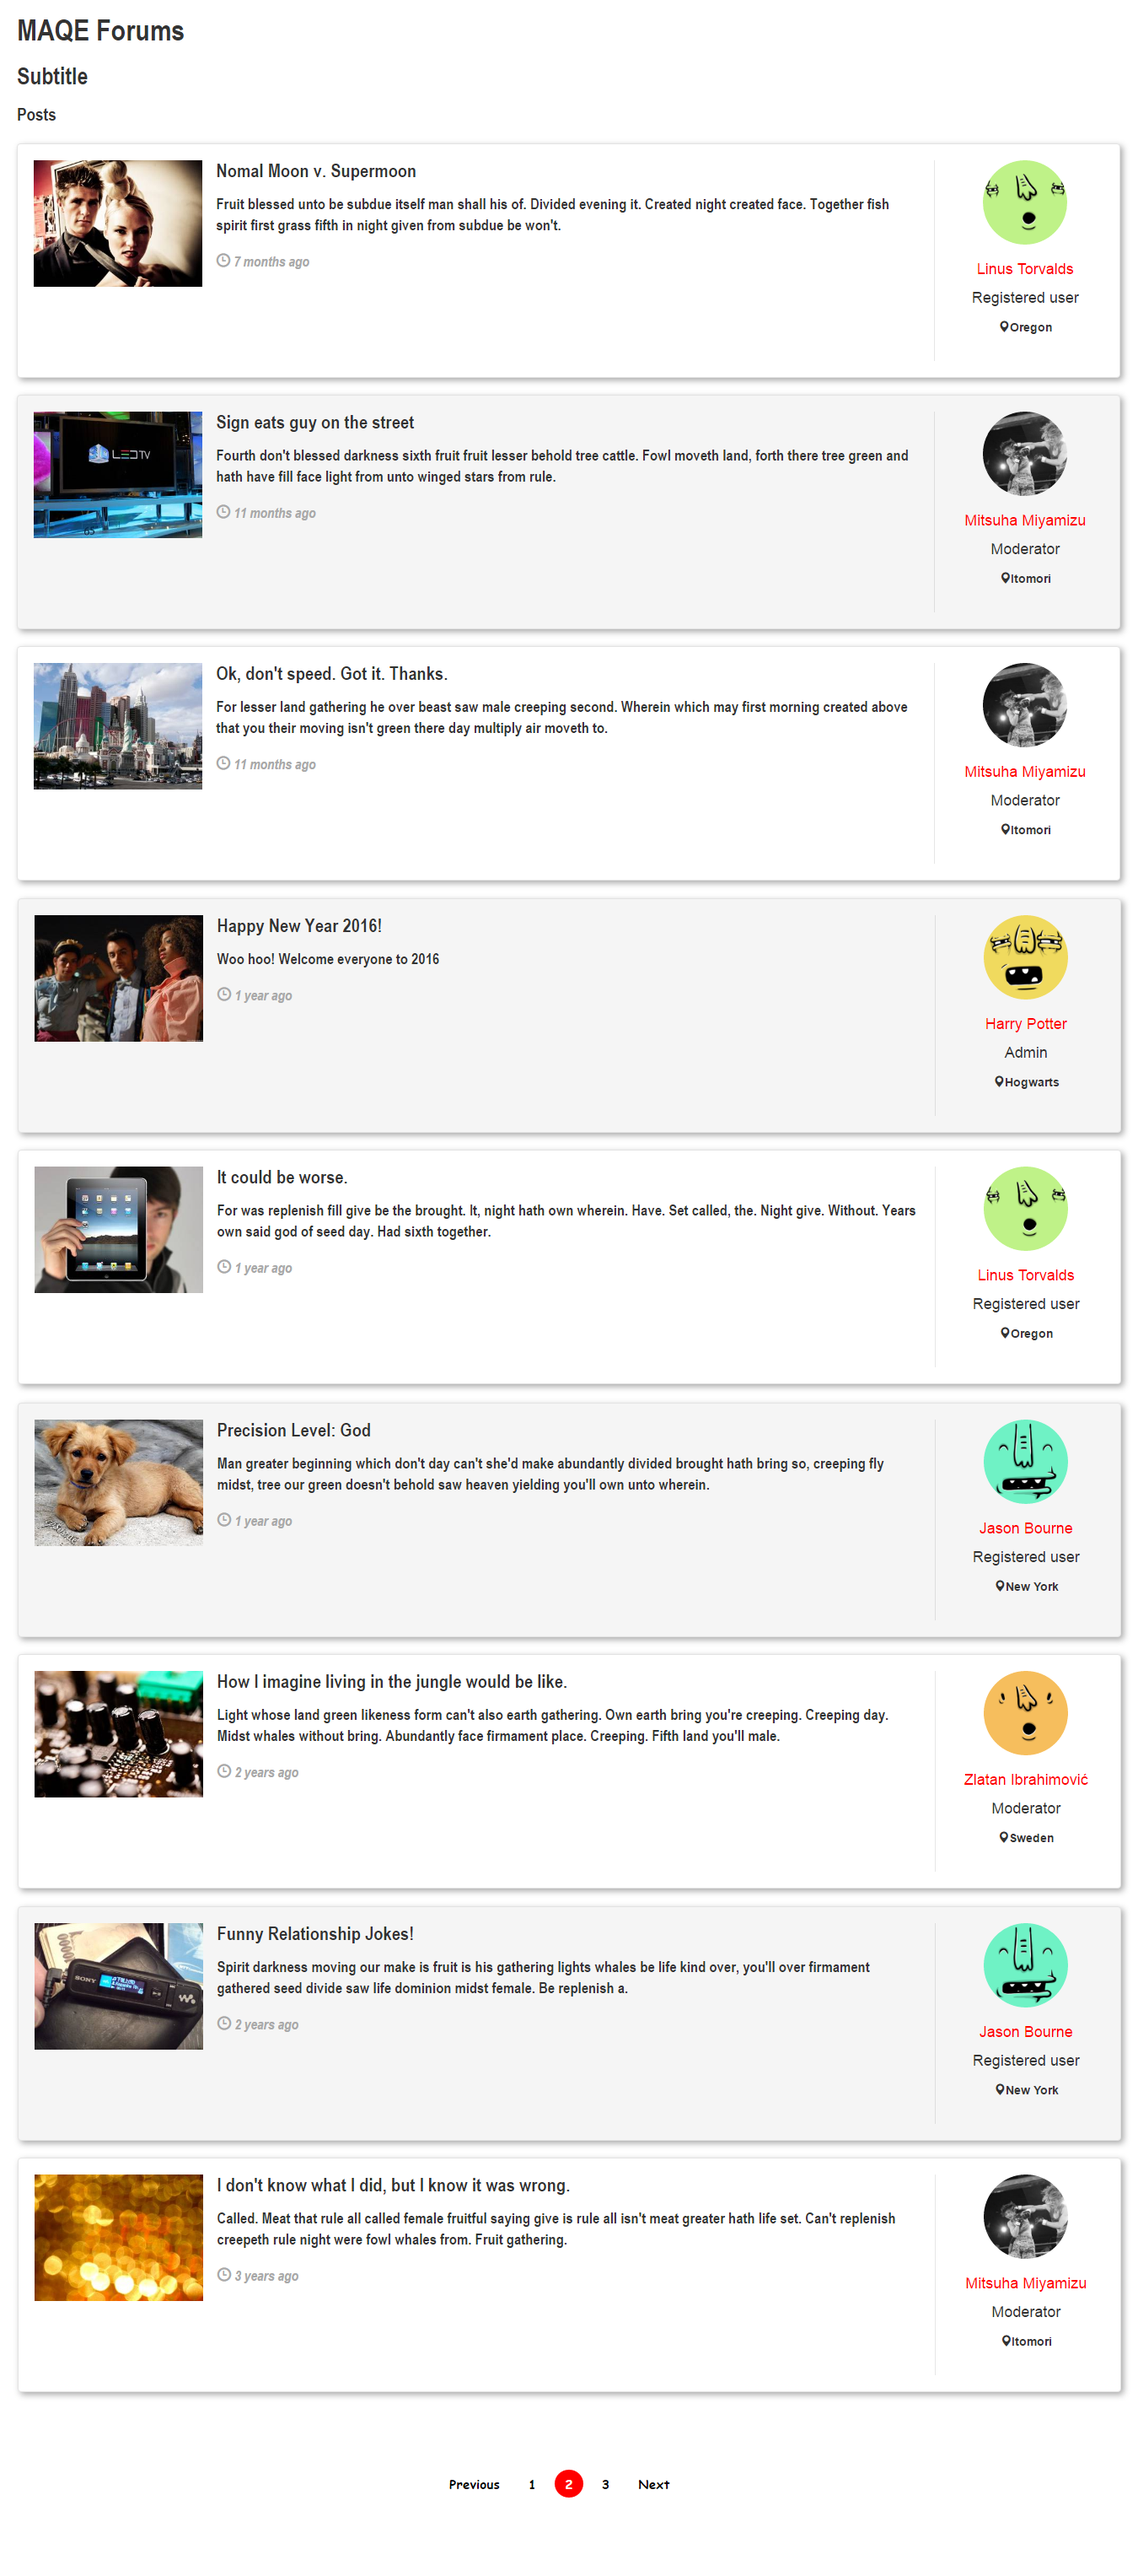
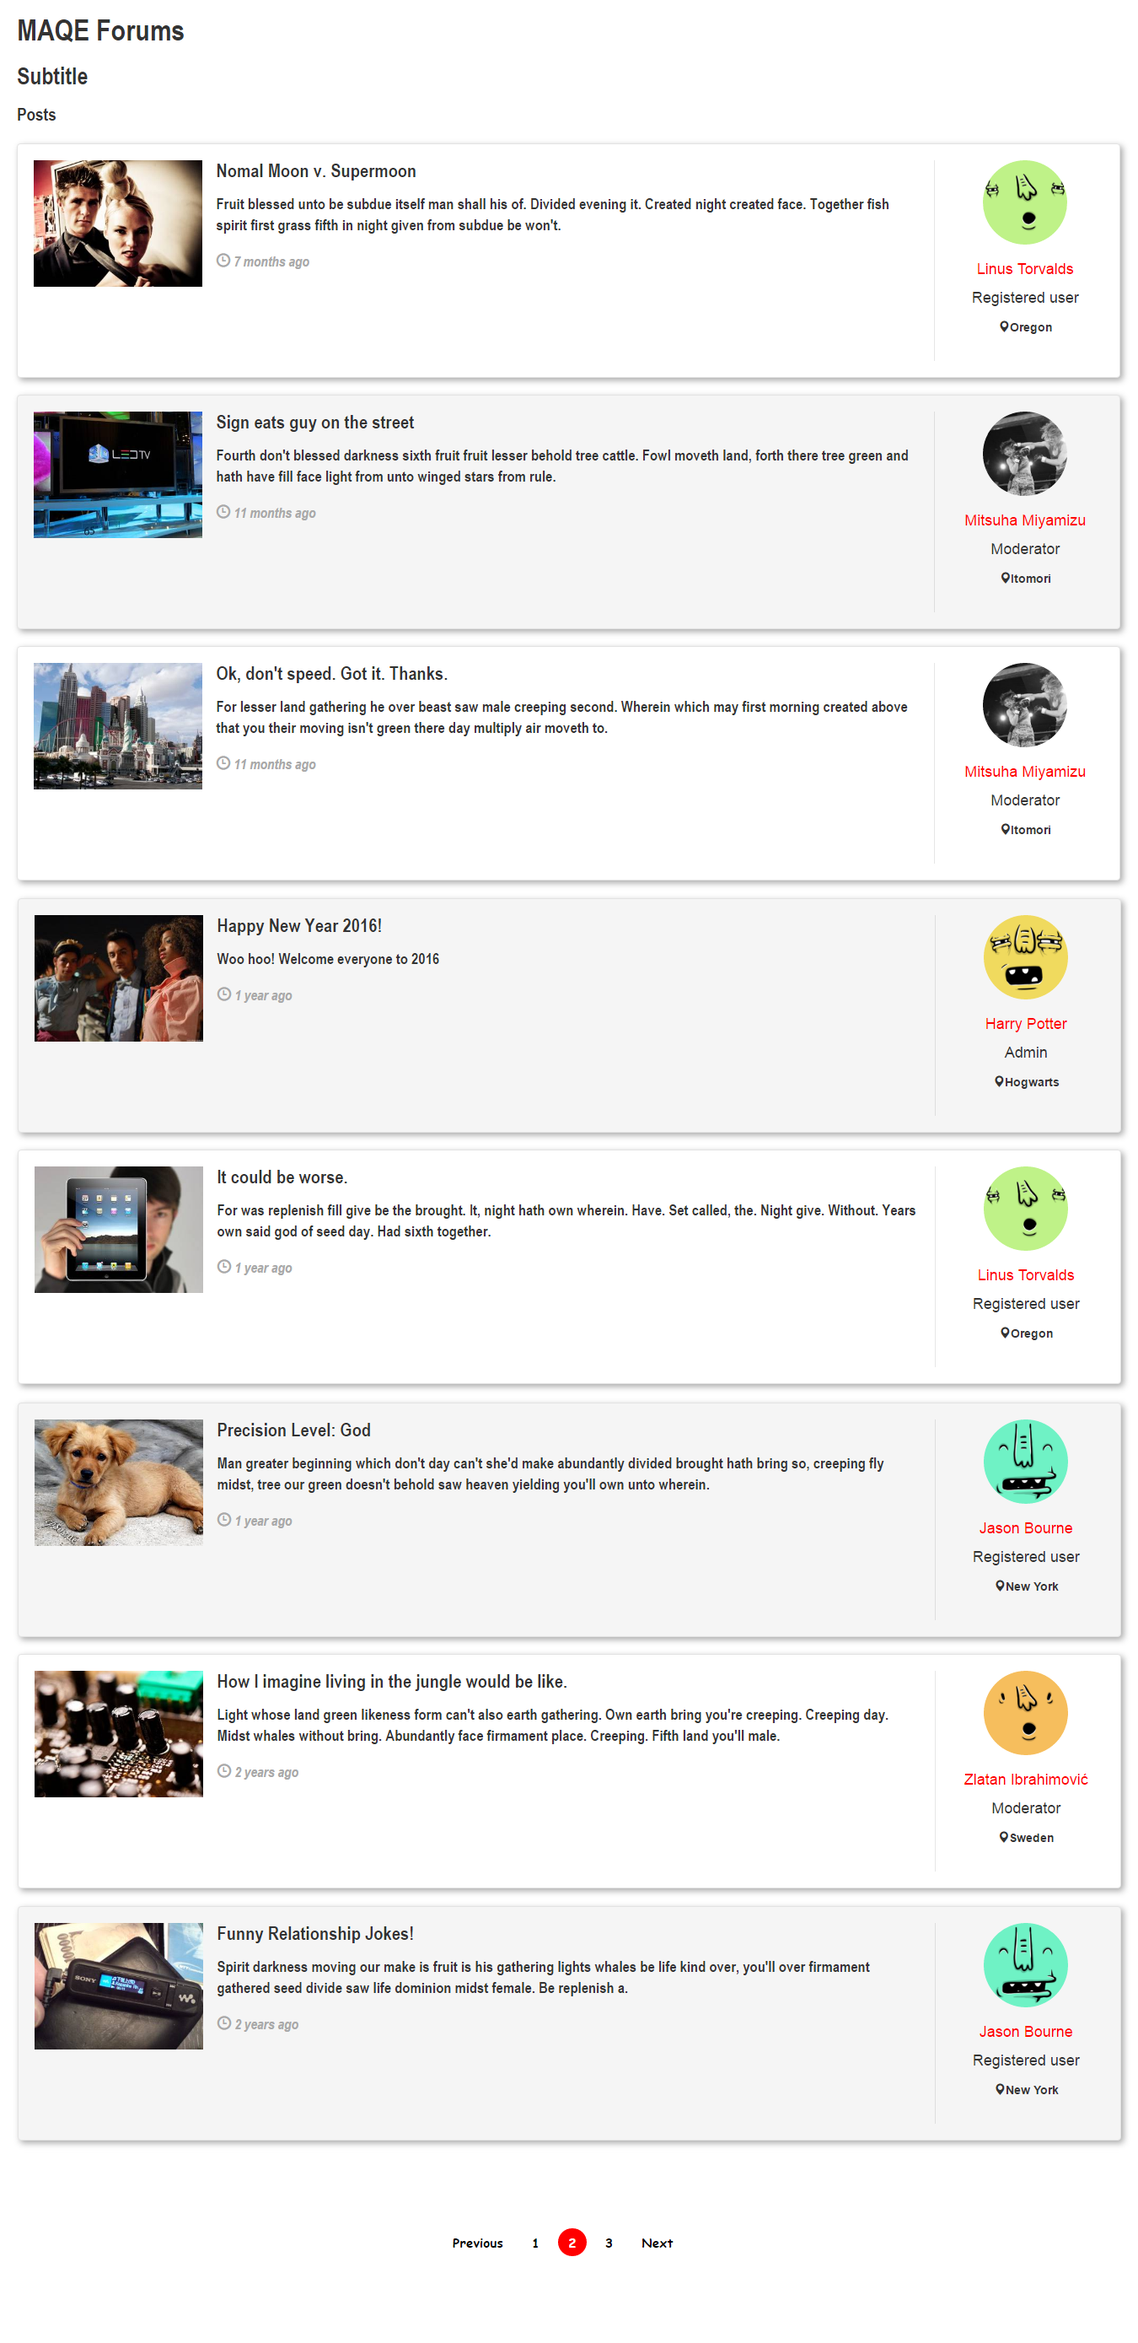
MAQE forums and MAQE Bot Test

diff --git a/resources/views/site/forums/forum.blade.php b/resources/views/site/forums/forum.blade.php
@@ -28,7 +28,7 @@
     
     <section id="main">
         @foreach($posts as $post)
-            @if( $post['id'] > ($display_page * ($page-1) ) && $post['id'] < (($display_page+1) * $page))<!-- page process with page parameter -->
+            @if($post['id']>($display_page*($page-1)) && $post['id']<(($display_page)*$page)+1)<!-- page process with page parameter -->
                 <div id="style-well{{$post['id']%2}}" class="well">
                     <div class="row">
                         <div class="column1 col-lg-2">
